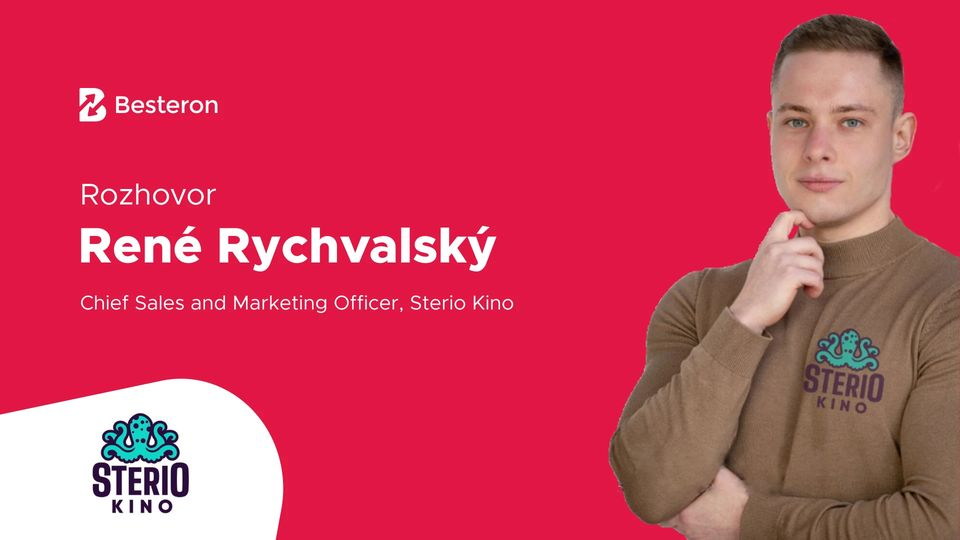
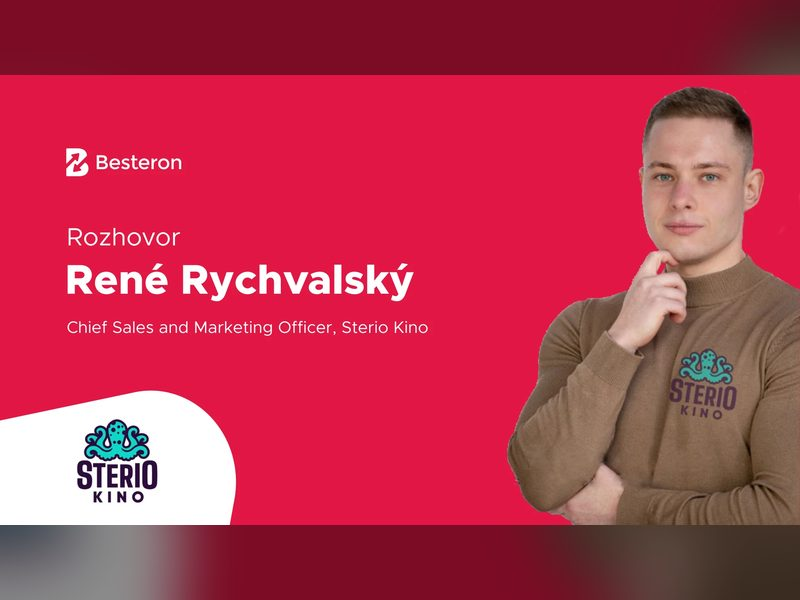
Písalo sa o nás: karusel 4 kariet, posun o jednu každých 8 s; fotky k LinkedIn príspevkom
Claude-Session: https://claude.ai/code/session_01EEmTKmxppf4HTVv5Une88h

diff --git a/index.html b/index.html
@@ -124,18 +124,24 @@
 
   /* AKO SPOLUPRACUJEME */
   @media (prefers-reduced-motion: reduce) { .press img { transition: none; } .press a:hover img { transform: none; } }
-  .press { display: grid; grid-template-columns: repeat(3, 1fr); gap: 1.75rem 1.5rem; list-style: none; }
+  .press-head { display: flex; align-items: flex-end; justify-content: space-between; gap: 1rem; flex-wrap: wrap; }
+  .press-nav { display: flex; gap: .5rem; margin-bottom: 2.5rem; }
+  .press-nav button { width: 44px; height: 44px; border-radius: 50%; border: 1px solid var(--line); background: var(--bg2); color: var(--text); font-size: 1.2rem; cursor: pointer; }
+  .press-nav button:hover, .press-nav button:focus-visible { border-color: var(--accent); color: var(--accent); }
+  .press-view { --per: 4; --gap: 1.25rem; overflow: hidden; }
+  .press { display: flex; gap: var(--gap); list-style: none; will-change: transform; }
+  .press > li { flex: 0 0 calc((100% - (var(--per) - 1) * var(--gap)) / var(--per)); }
   .press a { display: flex; flex-direction: column; height: 100%; overflow: hidden; border: 1px solid var(--line); border-radius: .75rem; background: var(--bg2); color: var(--text); text-decoration: none; transition: border-color .2s; }
   .press a:hover, .press a:focus-visible { border-color: var(--accent); }
-  .press .img { overflow: hidden; aspect-ratio: 16/9; background: #151515; }
+  .press .img { overflow: hidden; aspect-ratio: 4/3; background: #151515; }
   .press img { width: 100%; height: 100%; object-fit: cover; transition: transform .3s; }
   .press a:hover img { transform: scale(1.03); }
   @media (prefers-reduced-motion: reduce) { .press img { transition: none; } .press a:hover img { transform: none; } }
-  .press .txt { display: flex; flex-direction: column; flex: 1; padding: 1.5rem 1.5rem 1.6rem; }
+  .press .txt { display: flex; flex-direction: column; flex: 1; padding: 1.25rem 1.25rem 1.4rem; }
   .press .src { color: var(--accent); font-weight: 700; font-size: .8rem; letter-spacing: .04em; text-transform: uppercase; margin-bottom: .7rem; }
   .press .src.li { color: #4C9BE8; }
-  .press h3 { font-size: 1.05rem; line-height: 1.4; margin-bottom: .7rem; }
-  .press p { color: var(--muted); font-size: .93rem; margin-bottom: 1.25rem; }
+  .press h3 { font-size: 1rem; line-height: 1.4; margin-bottom: .6rem; }
+  .press p { color: var(--muted); font-size: .9rem; line-height: 1.55; margin-bottom: 1.1rem; }
   .press .more-link { margin-top: auto; color: var(--accent); font-weight: 700; font-size: .93rem; }
   .steps { display: grid; grid-template-columns: repeat(4, 1fr); gap: 2rem; list-style: none; counter-reset: krok; }
   .steps li { counter-increment: krok; border-top: 2px solid var(--accent); padding-top: 1.25rem; }
@@ -201,7 +207,7 @@
     .team-title { margin-top: 3rem; }
     .case { grid-template-columns: 1fr; gap: 1.25rem; padding: 2rem 0; }
     .quotes { grid-template-columns: 1fr; }
-    .press { grid-template-columns: 1fr 1fr; }
+    .press-view { --per: 2; }
     .about { grid-template-columns: 1fr; gap: 2rem; }
     .photos { max-width: 320px; }
     .contact { grid-template-columns: 1fr; gap: 2.5rem; }
@@ -210,7 +216,7 @@
   }
   @media (max-width: 520px) {
     .steps { grid-template-columns: 1fr; }
-    .press { grid-template-columns: 1fr; }
+    .press-view { --per: 1; }
     .team { grid-template-columns: repeat(2, 1fr); }
   }
 </style>
@@ -470,11 +476,20 @@
   <section>
     <span class="anchor" id="media"></span>
     <div class="wrap">
-      <h2>Písalo sa o nás</h2>
-      <p class="lead">Články, rozhovory a príspevky, v ktorých sa spomína René Rychvalský a jeho práca.</p>
-      <ul class="press">
+      <div class="press-head">
+        <div>
+          <h2>Písalo sa o nás</h2>
+          <p class="lead">Články, rozhovory a príspevky, v ktorých sa spomína René Rychvalský a jeho práca.</p>
+        </div>
+        <div class="press-nav">
+          <button type="button" id="press-prev" aria-label="Predchádzajúci">←</button>
+          <button type="button" id="press-next" aria-label="Ďalší">→</button>
+        </div>
+      </div>
+      <div class="press-view" aria-roledescription="karusel" aria-label="Písalo sa o nás">
+        <ul class="press" id="press">
         <li><a href="https://besteron.com/sk/blog/rene-rychvalsky-sterio-kino-tip-pre-rebranding-musite-byt-ini-ako-inaksi" target="_blank" rel="noopener">
-          <div class="img"><img src="media/besteron.jpg" alt="Besteron – rozhovor s René Rychvalským, Sterio Kino" width="960" height="540" loading="lazy"></div>
+          <div class="img"><img src="media/besteron.jpg" alt="Besteron – rozhovor s René Rychvalským, Sterio Kino" width="800" height="600" loading="lazy"></div>
           <div class="txt">
             <span class="src">Besteron · rozhovor</span>
             <h3>René Rychvalský: Tip pre rebranding? Musíte byť iní, ako inakší</h3>
@@ -482,48 +497,44 @@
             <span class="more-link">Čítať rozhovor →</span>
           </div>
         </a></li>
-        <!-- LinkedIn príspevok 2: doplniť obrázok, nadpis a úryvok -->
         <li><a href="https://www.linkedin.com/feed/update/urn:li:share:7473638486525489152/" target="_blank" rel="noopener">
-          <div class="img"><img src="media/linkedin.jpg" alt="LinkedIn" width="960" height="540" loading="lazy"></div>
+          <div class="img"><img src="media/linkedin-2.jpg" alt="Správa o rozpočte 18 000 € na Meta reklamu" width="800" height="600" loading="lazy"></div>
           <div class="txt">
             <span class="src li">LinkedIn · príspevok</span>
-            <h3>Príspevok Reného na LinkedIne</h3>
-            <p>Úryvok z príspevku doplníme.</p>
+            <h3>Keď Meta nechce zvýšiť limit na reklamu</h3>
+            <p>18 000 € na Mete do konca júna, alebo ide rozpočet do Google Ads. Jedna správa a limit bol vyriešený.</p>
             <span class="more-link">Čítať na LinkedIne →</span>
           </div>
         </a></li>
-        <!-- LinkedIn príspevok 3: doplniť obrázok, nadpis a úryvok -->
         <li><a href="https://www.linkedin.com/feed/update/urn:li:ugcPost:7316676382434975745/" target="_blank" rel="noopener">
-          <div class="img"><img src="media/linkedin.jpg" alt="LinkedIn" width="960" height="540" loading="lazy"></div>
+          <div class="img"><img src="media/linkedin-3.jpg" alt="SUVKO raňajky – Budovanie značky zvonku, René Rychvalský" width="800" height="600" loading="lazy"></div>
           <div class="txt">
             <span class="src li">LinkedIn · príspevok</span>
-            <h3>Príspevok Reného na LinkedIne</h3>
-            <p>Úryvok z príspevku doplníme.</p>
+            <h3>SUVKO raňajky: Budovanie značky zvonku</h3>
+            <p>René bol hosťom SUVKO raňajok a hovoril o tom, ako budovať značku smerom von.</p>
             <span class="more-link">Čítať na LinkedIne →</span>
           </div>
         </a></li>
-        <!-- LinkedIn príspevok 4: doplniť obrázok, nadpis a úryvok -->
         <li><a href="https://www.linkedin.com/feed/update/urn:li:ugcPost:7432714512820162561/" target="_blank" rel="noopener">
-          <div class="img"><img src="media/linkedin.jpg" alt="LinkedIn" width="960" height="540" loading="lazy"></div>
+          <div class="img"><img src="media/linkedin-4.jpg" alt="Maskot My sme KFA pred futbalovou arénou" width="800" height="600" loading="lazy"></div>
           <div class="txt">
             <span class="src li">LinkedIn · príspevok</span>
-            <h3>Príspevok Reného na LinkedIne</h3>
-            <p>Úryvok z príspevku doplníme.</p>
+            <h3>My sme KFA: maskot pred futbalovou arénou</h3>
+            <p>Futbalová lopta s čiapkou ožila. Pozrite sa, ako vznikal obsah s novým maskotom.</p>
             <span class="more-link">Čítať na LinkedIne →</span>
           </div>
         </a></li>
-        <!-- LinkedIn príspevok 5: doplniť obrázok, nadpis a úryvok -->
         <li><a href="https://www.linkedin.com/feed/update/urn:li:ugcPost:7310711791188082693/" target="_blank" rel="noopener">
-          <div class="img"><img src="media/linkedin.jpg" alt="LinkedIn" width="960" height="540" loading="lazy"></div>
+          <div class="img"><img src="media/linkedin-5.jpg" alt="René Rychvalský prednáša v univerzitnej posluchárni" width="800" height="600" loading="lazy"></div>
           <div class="txt">
             <span class="src li">LinkedIn · príspevok</span>
-            <h3>Príspevok Reného na LinkedIne</h3>
-            <p>Úryvok z príspevku doplníme.</p>
+            <h3>Prednáška o marketingu pre študentov</h3>
+            <p>René prednášal študentom v univerzitnej posluchárni o marketingu v praxi.</p>
             <span class="more-link">Čítať na LinkedIne →</span>
           </div>
         </a></li>
         <li><a href="https://www.interez.sk/znamu-siet-kin-uz-na-slovensku-pod-tymto-nazvom-nenajdete-presla-vyraznou-zmenou-planuje-sa-rozsirovat-aj-do-dalsich-miest/" target="_blank" rel="noopener">
-          <div class="img"><img src="media/interez-1.jpg" alt="Diváci v kinosále" width="960" height="540" loading="lazy"></div>
+          <div class="img"><img src="media/interez-1.jpg" alt="Diváci v kinosále" width="800" height="600" loading="lazy"></div>
           <div class="txt">
             <span class="src">Interez · článok</span>
             <h3>Známu sieť kín už na Slovensku pod týmto názvom nenájdete, prešla výraznou zmenou</h3>
@@ -532,7 +543,7 @@
           </div>
         </a></li>
         <li><a href="https://www.interez.sk/na-vychode-otvorila-novu-pobocku-zmenila-nazov-a-nevylucuje-expanziu-do-dalsich-miest-znama-siet-kin-zazila-uspesny-rok/" target="_blank" rel="noopener">
-          <div class="img"><img src="media/interez-2.jpg" alt="Prázdna kinosála s modrými sedadlami" width="960" height="540" loading="lazy"></div>
+          <div class="img"><img src="media/interez-2.jpg" alt="Prázdna kinosála s modrými sedadlami" width="800" height="600" loading="lazy"></div>
           <div class="txt">
             <span class="src">Interez · článok</span>
             <h3>Na východe otvorila novú pobočku, zmenila názov a nevylučuje expanziu do ďalších miest</h3>
@@ -540,8 +551,51 @@
             <span class="more-link">Čítať článok →</span>
           </div>
         </a></li>
-      </ul>
+        </ul>
+      </div>
     </div>
+    <script>
+      (function () {
+        var list = document.getElementById('press'); if (!list) return;
+        var view = list.parentElement, busy = false, paused = false;
+        var reduce = window.matchMedia('(prefers-reduced-motion: reduce)').matches;
+        function step() { var li = list.children[0]; return li.getBoundingClientRect().width + parseFloat(getComputedStyle(list).columnGap || 0); }
+        function next() {
+          if (busy) return; busy = true;
+          list.style.transition = reduce ? 'none' : 'transform .6s ease';
+          list.style.transform = 'translateX(' + (-step()) + 'px)';
+          var done = function () {
+            list.style.transition = 'none'; list.appendChild(list.children[0]);
+            list.style.transform = 'none'; busy = false;
+          };
+          if (reduce) done(); else list.addEventListener('transitionend', done, { once: true });
+        }
+        function prev() {
+          if (busy) return; busy = true;
+          list.style.transition = 'none'; list.insertBefore(list.lastElementChild, list.children[0]);
+          list.style.transform = 'translateX(' + (-step()) + 'px)';
+          list.getBoundingClientRect();
+          if (reduce) { list.style.transform = 'none'; busy = false; return; }
+          list.style.transition = 'transform .6s ease'; list.style.transform = 'none';
+          list.addEventListener('transitionend', function () { busy = false; }, { once: true });
+        }
+        var timer;
+        function restart() { clearInterval(timer); if (!reduce) timer = setInterval(function () { if (!paused && !document.hidden) next(); }, 8000); }
+        document.getElementById('press-next').addEventListener('click', function () { next(); restart(); });
+        document.getElementById('press-prev').addEventListener('click', function () { prev(); restart(); });
+        view.addEventListener('mouseenter', function () { paused = true; });
+        view.addEventListener('mouseleave', function () { paused = false; });
+        view.addEventListener('focusin', function () { paused = true; });
+        view.addEventListener('focusout', function () { paused = false; });
+        var x0 = null;
+        view.addEventListener('touchstart', function (e) { x0 = e.touches[0].clientX; }, { passive: true });
+        view.addEventListener('touchend', function (e) {
+          if (x0 === null) return; var dx = e.changedTouches[0].clientX - x0; x0 = null;
+          if (Math.abs(dx) > 40) { dx < 0 ? next() : prev(); restart(); }
+        });
+        restart();
+      })();
+    </script>
   </section>
 
   <section>
